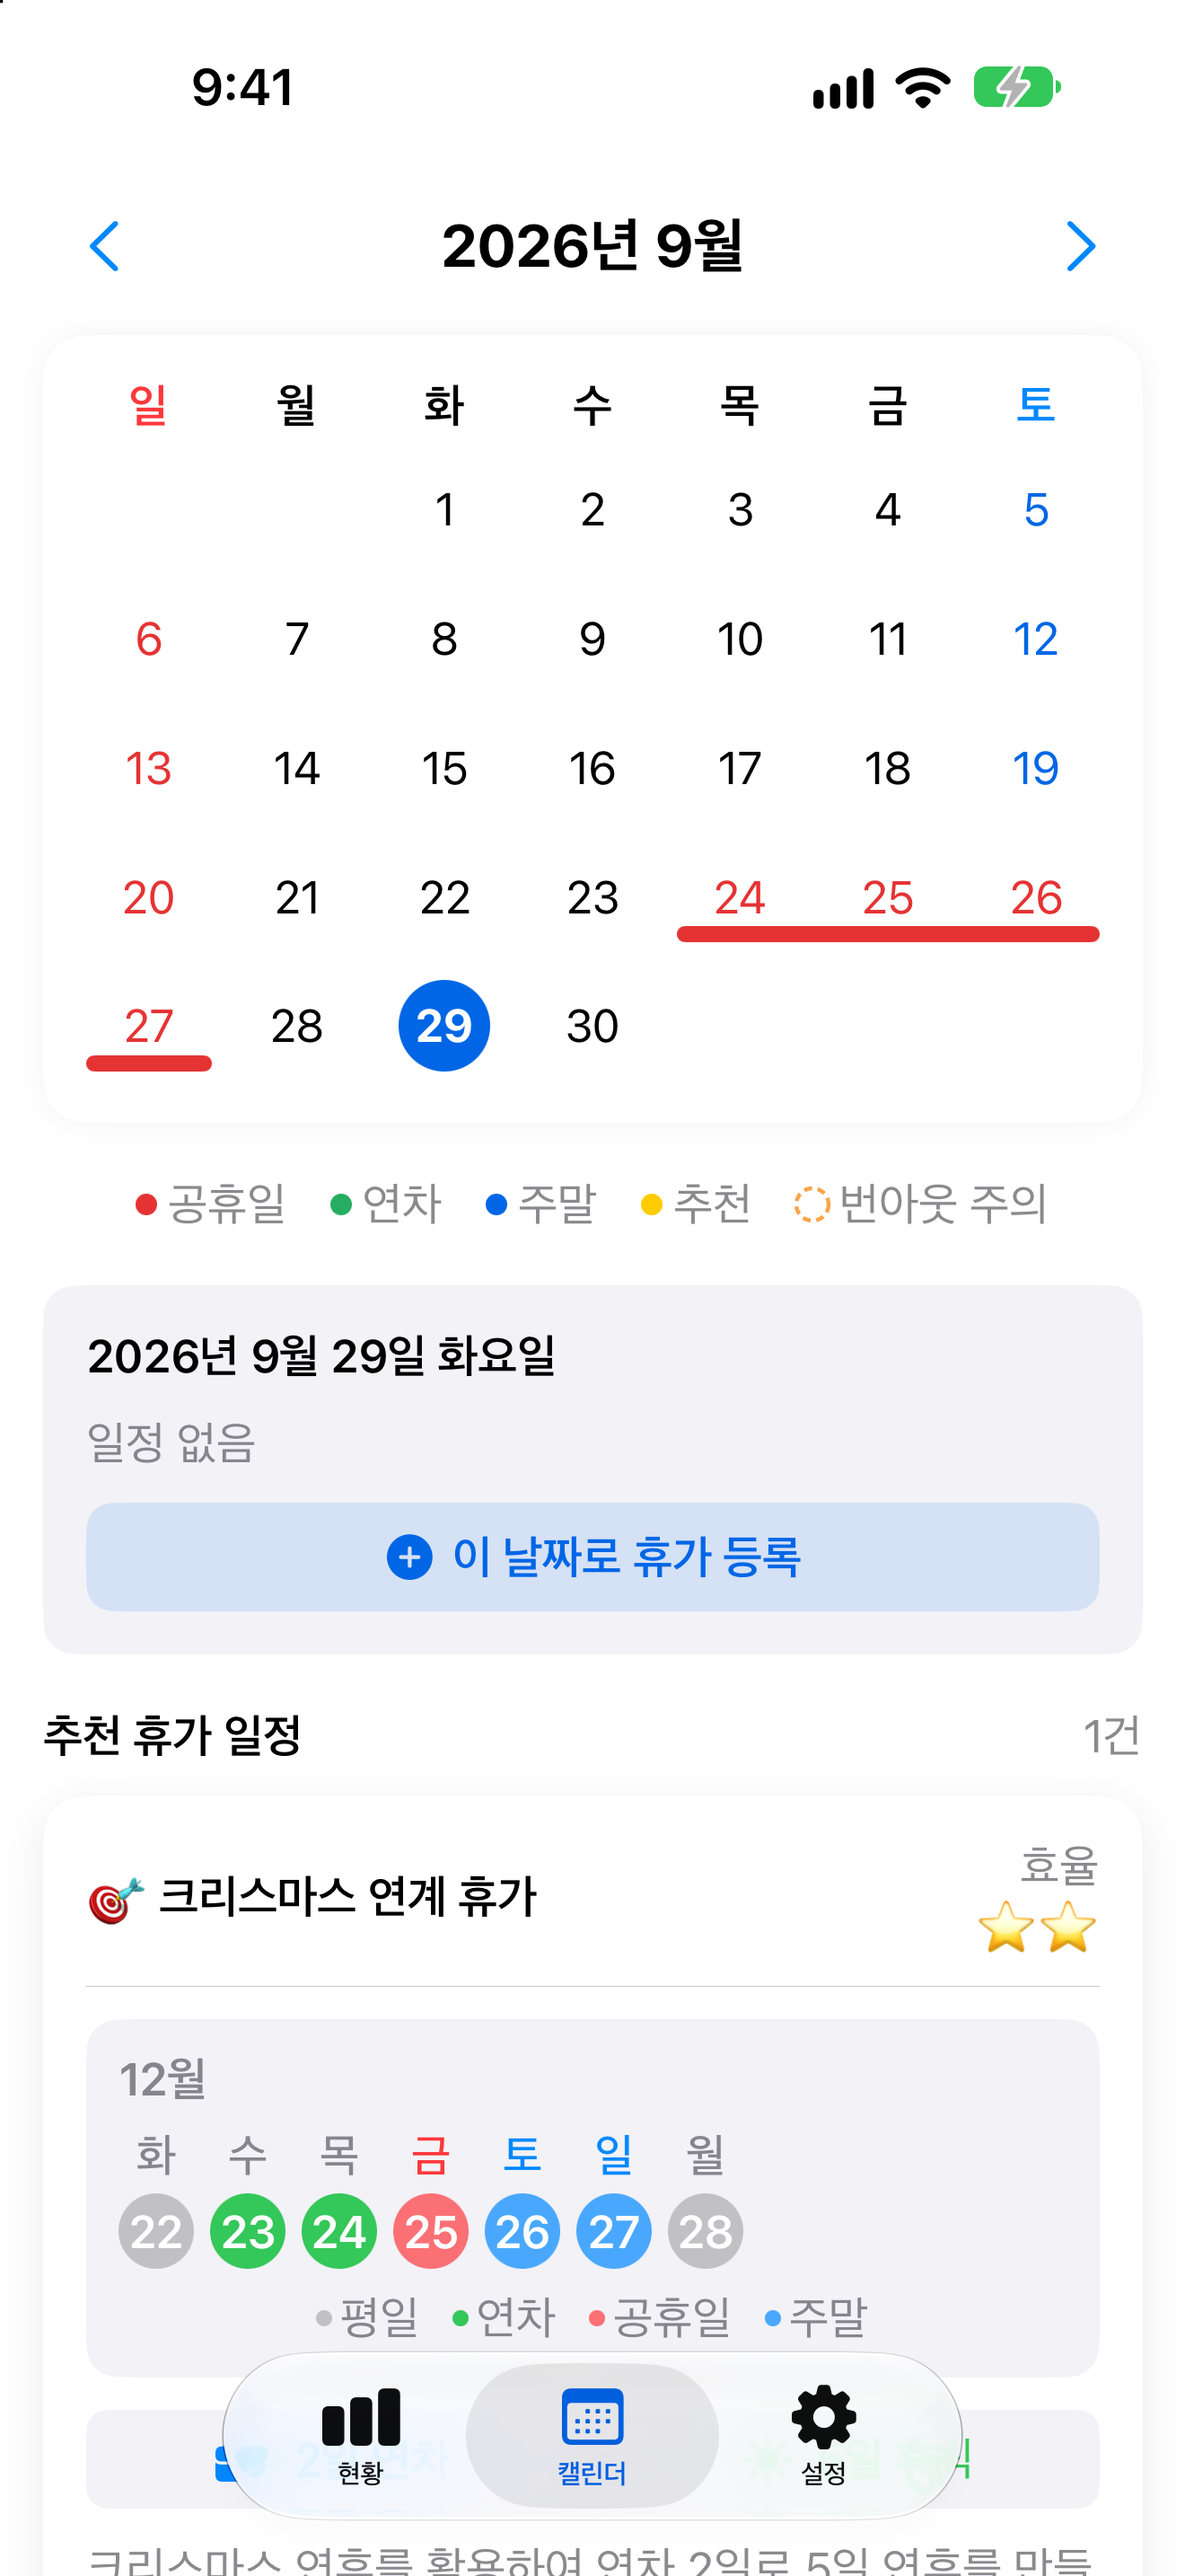
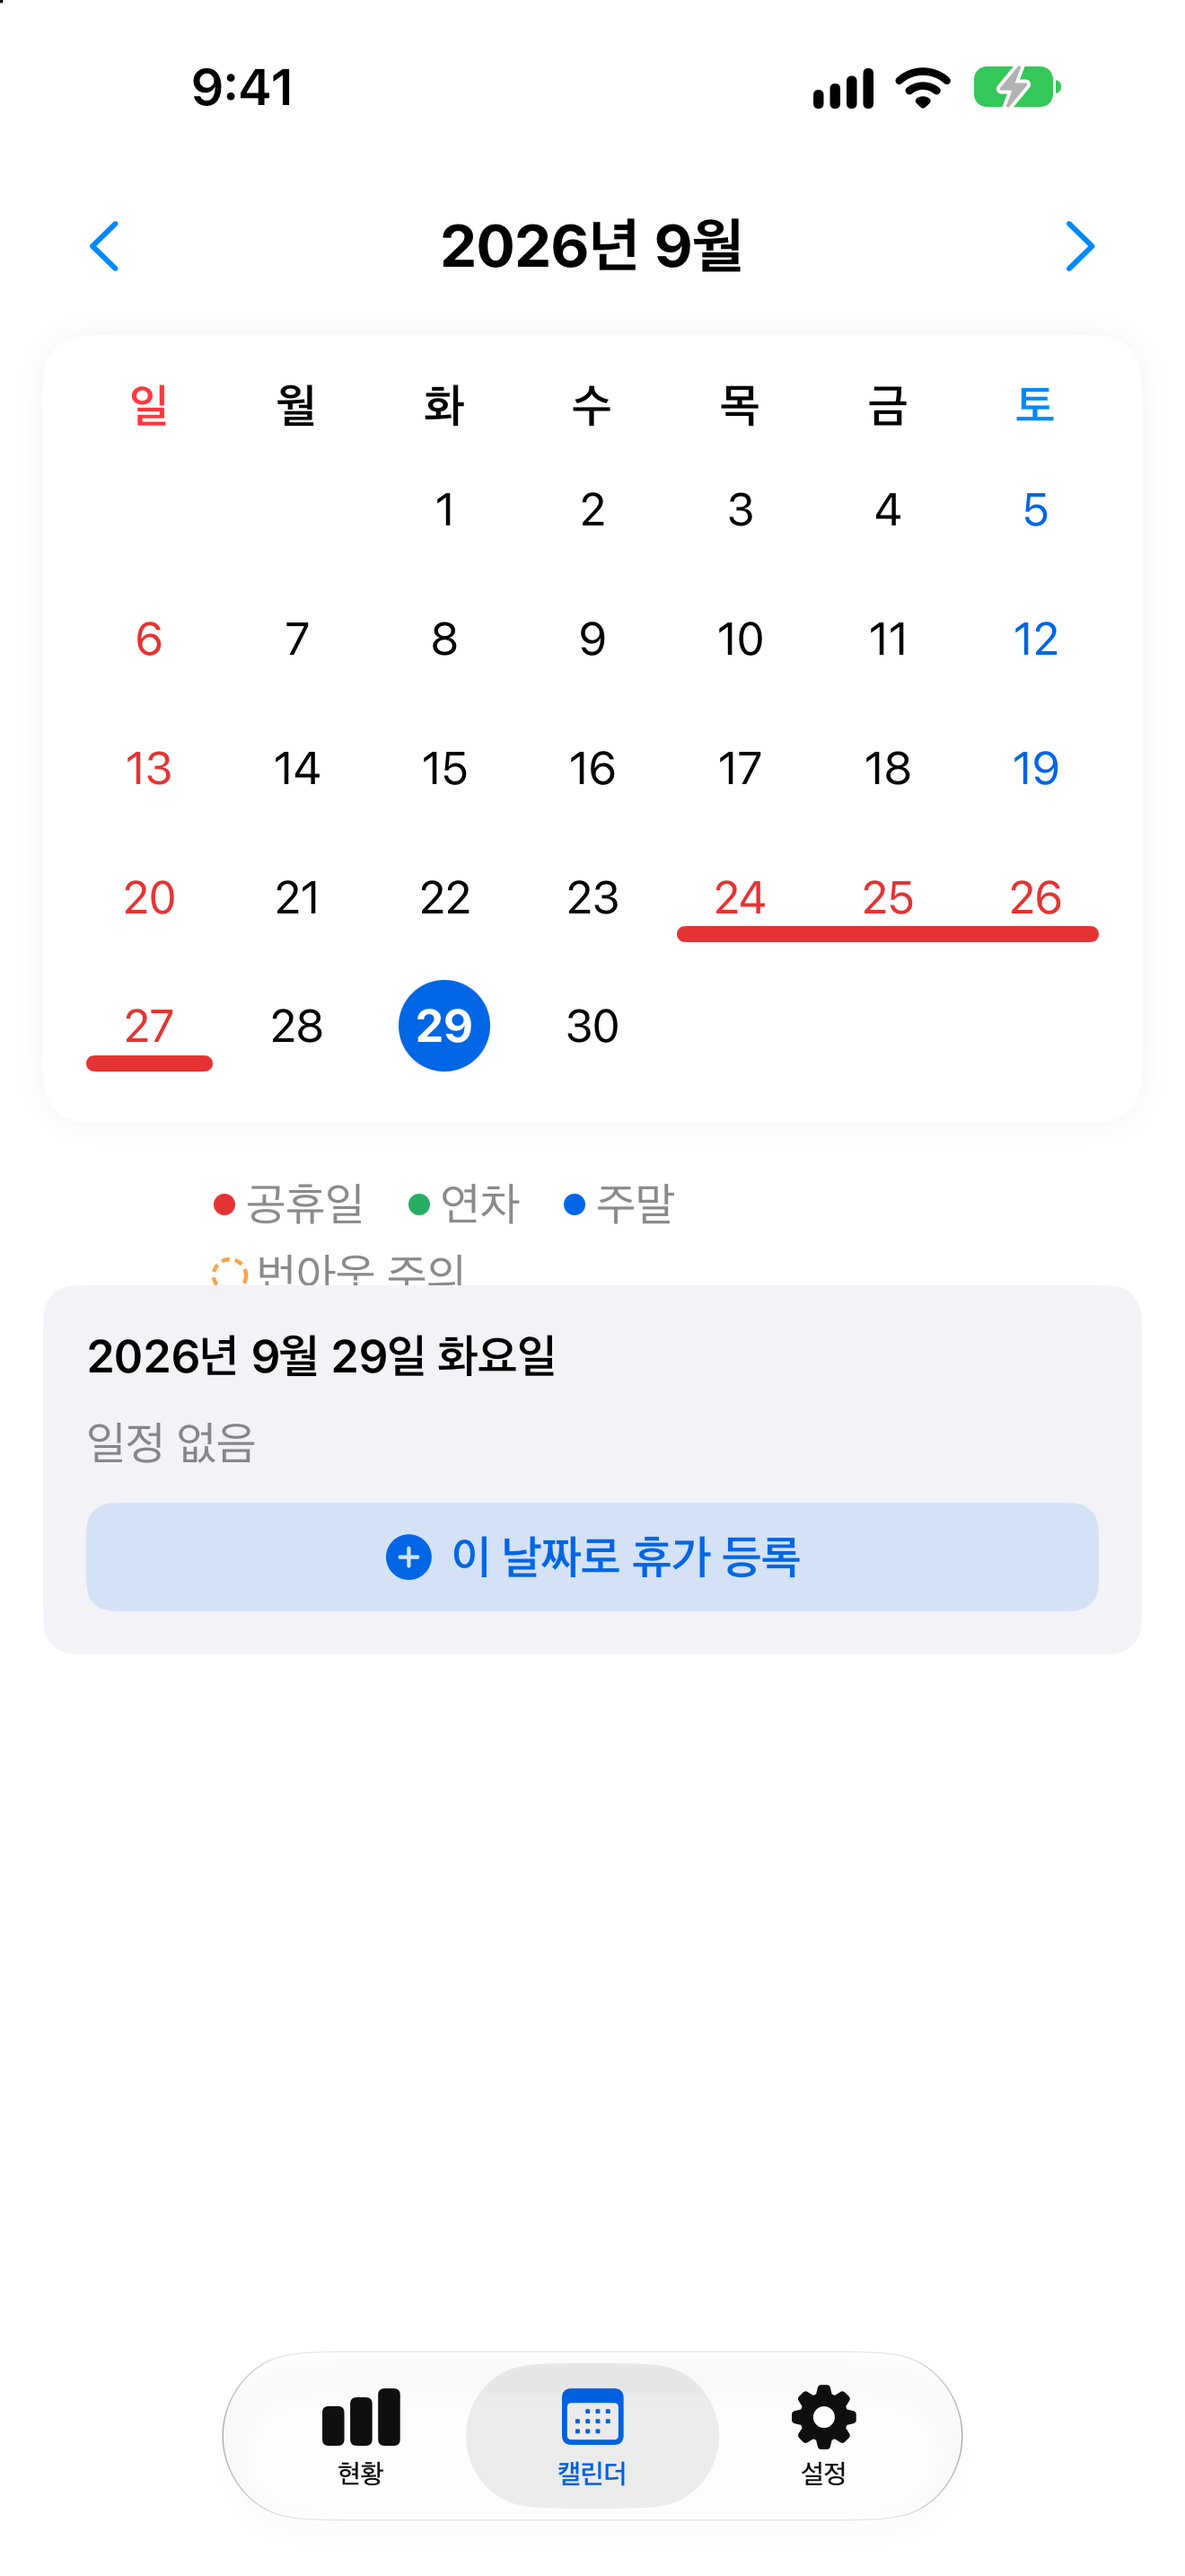
feat: Mac(Catalyst)·iPad 지원 — 캘린더 + 현황 대시보드 두 칸 화면
- Mac Catalyst 활성화, 기기군 iPhone+iPad (Catalyst는 iPad 지원이 필수), 번들 ID 동일(유니버설 구매)
- Mac 전용 entitlements: 샌드박스·네트워크·캘린더·카메라·사진·iCloud·푸시·App Group
- 넓은 화면(iPad·Mac): 탭 대신 왼쪽 캘린더 + 오른쪽 현황 대시보드, 설정·가족 일정은 상단 버튼
- 넓은 화면에서 캘린더 칸·글자 확대, 온보딩 폭 600pt 제한, Mac 창 최소 960×680
- 설정·가족 시트에 닫기 버튼(⌘, / Esc)
- 스크린샷 데모 휴가가 겹치던 문제 수정, iPad 13" 스크린샷 추가

diff --git a/Goldweek/Views/CalendarView.swift b/Goldweek/Views/CalendarView.swift
@@ -426,6 +426,7 @@ struct CalendarGrid: View {
     var warningDates: Set<Date> = []
 
     private let calendar = Calendar.current
+    @Environment(\.horizontalSizeClass) private var horizontalSizeClass
 
     /// 내 방학 날 — 쉬는 날이지만 공휴일(빨강)과 구분해 남색으로 그린다
     private func isMyBreak(_ date: Date) -> Bool {
@@ -491,7 +492,7 @@ struct CalendarGrid: View {
                         .buttonStyle(.plain)
                     } else {
                         Color.clear
-                            .frame(height: 40)
+                            .frame(height: horizontalSizeClass == .regular ? 64 : 40)
                             .accessibilityHidden(true)
                     }
                 }
@@ -611,6 +612,13 @@ struct DayCell: View {
 
     private let calendar = Calendar.current
 
+    // iPad·Mac 처럼 넓으면 칸을 키운다 — 폰 크기 그대로면 넓은 화면에서 달력이 작고 허전하다
+    @Environment(\.horizontalSizeClass) private var sizeClass
+    private var isWide: Bool { sizeClass == .regular }
+    private var cellHeight: CGFloat { isWide ? 64 : 40 }
+    private var circleSize: CGFloat { isWide ? 46 : 34 }
+    private var markOffset: CGFloat { isWide ? 22 : 14 }
+
     var dayNumber: Int {
         calendar.component(.day, from: date)
     }
@@ -637,7 +645,7 @@ struct DayCell: View {
             if isChildBreak {
                 Rectangle()
                     .fill(Color.teal.opacity(0.15))
-                    .frame(height: 36)
+                    .frame(height: cellHeight - 4)
                     .padding(.horizontal, -4)
             }
 
@@ -650,18 +658,18 @@ struct DayCell: View {
             if isSelected {
                 Circle()
                     .fill(AppTheme.Colors.brand)
-                    .frame(width: 34, height: 34)
+                    .frame(width: circleSize, height: circleSize)
             } else if isToday {
                 Circle()
                     .stroke(AppTheme.Colors.brand, lineWidth: 2)
-                    .frame(width: 34, height: 34)
+                    .frame(width: circleSize, height: circleSize)
             }
 
             // 추천: 최적 플랜이 제안하는 연차일 — 노란 배경으로 강조
             if isRecommended && !isSelected {
                 Circle()
                     .fill(Color.yellow.opacity(0.3))
-                    .frame(width: 34, height: 34)
+                    .frame(width: circleSize, height: circleSize)
             }
 
             // 번아웃 주의 구간 — 주황 점선 링으로 "구간" 강조 (배경 칠 X, 다른 표식과 겹쳐도 구분)
@@ -669,7 +677,7 @@ struct DayCell: View {
                 Circle()
                     .stroke(AppTheme.Colors.compensatory.opacity(0.7),
                             style: StrokeStyle(lineWidth: 1.5, dash: [3, 2]))
-                    .frame(width: 30, height: 30)
+                    .frame(width: circleSize - 4, height: circleSize - 4)
             }
 
             // 외톨이 공휴일은 점으로 표시
@@ -677,14 +685,14 @@ struct DayCell: View {
                 Circle()
                     .fill(AppTheme.Colors.holiday)
                     .frame(width: 6, height: 6)
-                    .offset(y: 14)
+                    .offset(y: markOffset)
             }
 
             Text("\(dayNumber)")
-                .font(.system(.body, weight: (isToday || isRecommended) ? .bold : .regular))
+                .font(.system(isWide ? .title3 : .body, weight: (isToday || isRecommended) ? .bold : .regular))
                 .foregroundStyle(textColor)
         }
-        .frame(height: 40)
+        .frame(height: cellHeight)
         .accessibilityElement(children: .ignore)
         .accessibilityLabel(Strings.accessibilityDayLabel(day: dayNumber, isToday: isToday, isHoliday: isHoliday, isLeave: isLeave, isSelected: isSelected))
         .accessibilityHint(isRecommended ? Text(Strings.recommendedSchedule) : Text(""))
@@ -709,7 +717,7 @@ struct DayCell: View {
             )
             .padding(.leading, leaveConnectsLeft ? -5 : 0)
             .padding(.trailing, leaveConnectsRight ? -5 : 0)
-            .offset(y: 14)
+            .offset(y: markOffset)
     }
 }
 

diff --git a/Goldweek/ContentView.swift b/Goldweek/ContentView.swift
@@ -303,6 +303,7 @@ struct ContentView: View {
 struct MainTabView: View {
     @Bindable var profile: UserProfile
     @State private var selectedTab = ScreenshotMode.initialTab
+    @Environment(\.horizontalSizeClass) private var horizontalSizeClass
 
     // 공유받은 일정이 있으면 가족 탭 표시 (@Observable — body에서 읽으면 자동 갱신)
     private var hasSharedSchedules: Bool {
@@ -310,6 +311,15 @@ struct MainTabView: View {
     }
 
     var body: some View {
+        // iPad·Mac 처럼 넓으면 탭 대신 "캘린더 + 현황 대시보드" 두 칸 화면
+        if horizontalSizeClass == .regular {
+            WideMainView(profile: profile, hasSharedSchedules: hasSharedSchedules)
+        } else {
+            compactTabs
+        }
+    }
+
+    private var compactTabs: some View {
         TabView(selection: $selectedTab) {
             HomeView(profile: profile)
                 .tabItem {
@@ -342,6 +352,57 @@ struct MainTabView: View {
                 .tag(3)
         }
         .tint(Color(red: 0.0, green: 0.4, blue: 0.9))
+    }
+}
+
+// MARK: - 넓은 화면 (iPad·Mac)
+
+/// 캘린더를 왼쪽에 크게, 오른쪽에 현황 대시보드.
+/// 아이폰 화면을 가로로 늘리면 카드가 화면 끝까지 퍼져 허전하다 — 넓은 화면에선 한눈에 달력과 현황을 같이 본다.
+struct WideMainView: View {
+    @Bindable var profile: UserProfile
+    let hasSharedSchedules: Bool
+
+    @State private var showingSettings = false
+    @State private var showingFamily = false
+
+    /// 오른쪽 대시보드 폭 — 현황 카드가 아이폰 폭과 비슷할 때 가장 읽기 좋다
+    private let dashboardWidth: CGFloat = 400
+
+    var body: some View {
+        HStack(spacing: 0) {
+            CalendarView(profile: profile)
+                .frame(minWidth: 460, maxWidth: .infinity)
+
+            Divider()
+                .ignoresSafeArea()
+
+            HomeView(
+                profile: profile,
+                onOpenSettings: { showingSettings = true },
+                onOpenFamily: hasSharedSchedules ? { showingFamily = true } : nil
+            )
+            .frame(width: dashboardWidth)
+            .background(Color(.systemGroupedBackground))
+        }
+        .sheet(isPresented: $showingSettings) {
+            SettingsView(profile: profile, showsCloseButton: true)
+                .frame(minWidth: 540, minHeight: 640)
+        }
+        .sheet(isPresented: $showingFamily) {
+            FamilyView(profile: profile, showsCloseButton: true)
+                .frame(minWidth: 540, minHeight: 640)
+        }
+        .onAppear(perform: applyMacWindowMinimumSize)
+    }
+
+    /// Mac 창을 너무 줄이면 두 칸이 찌그러진다 — 최소 크기를 건다
+    private func applyMacWindowMinimumSize() {
+        #if targetEnvironment(macCatalyst)
+        for case let scene as UIWindowScene in UIApplication.shared.connectedScenes {
+            scene.sizeRestrictions?.minimumSize = CGSize(width: 960, height: 680)
+        }
+        #endif
     }
 }
 

diff --git a/Goldweek/Views/SettingsView.swift b/Goldweek/Views/SettingsView.swift
@@ -13,6 +13,9 @@ import LeeoKit
 
 struct SettingsView: View {
     @Bindable var profile: UserProfile
+    /// 넓은 화면에서 시트로 띄울 때 닫기 버튼을 단다 (탭으로 볼 땐 필요 없다)
+    var showsCloseButton = false
+    @Environment(\.dismiss) private var dismissSheet
     @Environment(\.modelContext) private var modelContext
     @Environment(\.requestReview) private var requestReview
     @Query private var leaveRecords: [LeaveRecord]
@@ -74,8 +77,9 @@ struct SettingsView: View {
 
     private let recommendationEngine = RecommendationEngine()
 
-    init(profile: UserProfile) {
+    init(profile: UserProfile, showsCloseButton: Bool = false) {
         self.profile = profile
+        self.showsCloseButton = showsCloseButton
         _selectedCountry = State(initialValue: profile.country)
         _selectedLanguage = State(initialValue: AppLanguage.current)
     }
@@ -833,6 +837,14 @@ struct SettingsView: View {
             .onChange(of: profile.userTypeRaw) { _, _ in persistProfile() }
             .onChange(of: profile.countryRaw) { _, _ in persistProfile() }
             .navigationTitle(Strings.navTitleSettings)
+            .toolbar {
+                if showsCloseButton {
+                    ToolbarItem(placement: .cancellationAction) {
+                        Button(Strings.close) { dismissSheet() }
+                            .keyboardShortcut(.cancelAction)
+                    }
+                }
+            }
             .sheet(isPresented: $showingPreferences) {
                 PreferencesView(profile: profile)
             }

diff --git a/Goldweek/Views/HomeView.swift b/Goldweek/Views/HomeView.swift
@@ -11,6 +11,9 @@ import TipKit
 
 struct HomeView: View {
     @Bindable var profile: UserProfile
+    /// 넓은 화면(iPad·Mac)에서는 탭바가 없어 설정·가족 일정을 여기 상단 버튼으로 연다
+    var onOpenSettings: (() -> Void)? = nil
+    var onOpenFamily: (() -> Void)? = nil
     @Query(sort: \LeaveRecord.startDate) private var leaveRecords: [LeaveRecord]
     @Environment(\.modelContext) private var modelContext
 
@@ -250,6 +253,25 @@ struct HomeView: View {
                 .padding()
             }
             .navigationBarTitleDisplayMode(.inline)
+            .toolbar {
+                if let onOpenFamily {
+                    ToolbarItem(placement: .topBarTrailing) {
+                        Button(action: onOpenFamily) {
+                            Image(systemName: "person.2.fill")
+                        }
+                        .accessibilityLabel(Text(Strings.tabFamily))
+                    }
+                }
+                if let onOpenSettings {
+                    ToolbarItem(placement: .topBarTrailing) {
+                        Button(action: onOpenSettings) {
+                            Image(systemName: "gearshape.fill")
+                        }
+                        .accessibilityLabel(Text(Strings.tabSettings))
+                        .keyboardShortcut(",", modifiers: .command)
+                    }
+                }
+            }
             .sheet(isPresented: $showingHistory) {
                 LeaveHistoryView(yearStartMonth: profile.yearStartMonth)
             }

diff --git a/Goldweek/Utilities/ScreenshotMode.swift b/Goldweek/Utilities/ScreenshotMode.swift
@@ -65,11 +65,16 @@ enum ScreenshotMode {
         // 다가오는 휴가 — 공휴일 옆 징검다리를 채워 연휴로 만든 모습
         let holidays = HolidayService().getHolidays(for: year, country: country)
             + HolidayService().getHolidays(for: year + 1, country: country)
-        var added = 0
+        var added: [(start: Date, end: Date)] = []
         for holiday in holidays where holiday.date > cal.date(byAdding: .day, value: 3, to: today)! {
-            guard added < 2, let bridge = bridgeRange(for: holiday.date, calendar: cal) else { continue }
+            guard added.count < 2, let bridge = bridgeRange(for: holiday.date, calendar: cal) else { continue }
+            // 앞서 넣은 휴가와 겹치거나 붙으면 건너뛴다 (연휴가 이어지는 주에 두 번 잡히던 문제)
+            let dayAfter = { (d: Date) in cal.date(byAdding: .day, value: 1, to: d)! }
+            if added.contains(where: { bridge.start <= dayAfter($0.end) && dayAfter(bridge.end) >= $0.start }) { continue }
+            // 연휴 사이 평일이 다른 공휴일이면 휴가로 잡지 않는다
+            if holidays.contains(where: { cal.isDate($0.date, inSameDayAs: bridge.start) || cal.isDate($0.date, inSameDayAs: bridge.end) }) { continue }
             context.insert(LeaveRecord(startDate: bridge.start, endDate: bridge.end, status: .planned))
-            added += 1
+            added.append(bridge)
         }
 
         try? context.save()

diff --git a/Goldweek/Views/FamilyView.swift b/Goldweek/Views/FamilyView.swift
@@ -10,6 +10,9 @@ import SwiftUI
 
 struct FamilyView: View {
     @Bindable var profile: UserProfile
+    /// 넓은 화면에서 시트로 띄울 때 닫기 버튼
+    var showsCloseButton = false
+    @Environment(\.dismiss) private var dismissSheet
 
     private var service: ShareSyncService { .shared }
 
@@ -45,6 +48,12 @@ struct FamilyView: View {
             }
             .navigationTitle(Strings.familyNavTitle)
             .toolbar {
+                if showsCloseButton {
+                    ToolbarItem(placement: .cancellationAction) {
+                        Button(Strings.close) { dismissSheet() }
+                            .keyboardShortcut(.cancelAction)
+                    }
+                }
                 ToolbarItem(placement: .topBarTrailing) {
                     NavigationLink(destination: ShareScheduleView(profile: profile)) {
                         Image(systemName: "person.2.badge.gearshape")

diff --git a/Goldweek/Views/OnboardingView.swift b/Goldweek/Views/OnboardingView.swift
@@ -68,6 +68,8 @@ struct OnboardingView: View {
                         .padding(.bottom, 32)
                 }
             }
+            // iPad·Mac 에서 버튼·카드가 창 끝까지 늘어나지 않게 — 가운데 폰 폭 정도로 모은다
+            .frame(maxWidth: 600)
         }
         .onTapGesture {
             isNameFieldFocused = false

diff --git a/todo.md b/todo.md
@@ -2,6 +2,17 @@
 
 ## 진행 중
 
+### Mac(Catalyst)·iPad 지원 (2026-09-29)
+- [x] Mac Catalyst 켜기 (iPad 지원 필수라 기기군 iPhone+iPad), 번들 ID 동일 → 유니버설 구매
+- [x] Mac 전용 entitlements (샌드박스·네트워크·캘린더·카메라·사진·iCloud·푸시)
+- [x] 넓은 화면 레이아웃: 왼쪽 캘린더 + 오른쪽 현황 대시보드, 설정·가족은 상단 버튼(시트)
+- [x] 넓은 화면에서 캘린더 칸 확대, 온보딩 폭 제한, Mac 창 최소 크기
+- [x] iPad 13" 스크린샷 (docs/screenshots-ipad)
+- [ ] App Store Connect: 같은 앱에 macOS 플랫폼 추가 → Mac 빌드(Any Mac) 업로드 + Mac 스크린샷
+- [ ] 개발자 포털: App ID에 Mac Catalyst 활성화, iCloud·App Group·Push 프로파일 갱신
+- [ ] "Designed for iPad"(아이폰 앱을 Mac에서 그대로)로 실행 시 온보딩 직후 스택 오버플로 크래시 — Catalyst 빌드에선 재현 안 됨. 실기기 아이폰 온보딩 한 번 확인 필요
+- [ ] Mac 메뉴 단축키(⌘N 휴가 등록 등), 사진 가져오기(카메라 없음) 동작 확인
+
 ### 전세계 판매 준비 (2026-09-29)
 - [x] main ↔ dev 정리: origin/main 으로 fast-forward, dev 를 main 에서 다시 분기
 - [x] 독일어·프랑스어 UI 추가 (앱 문자열 640곳 + 위젯·InfoPlist 카탈로그)
